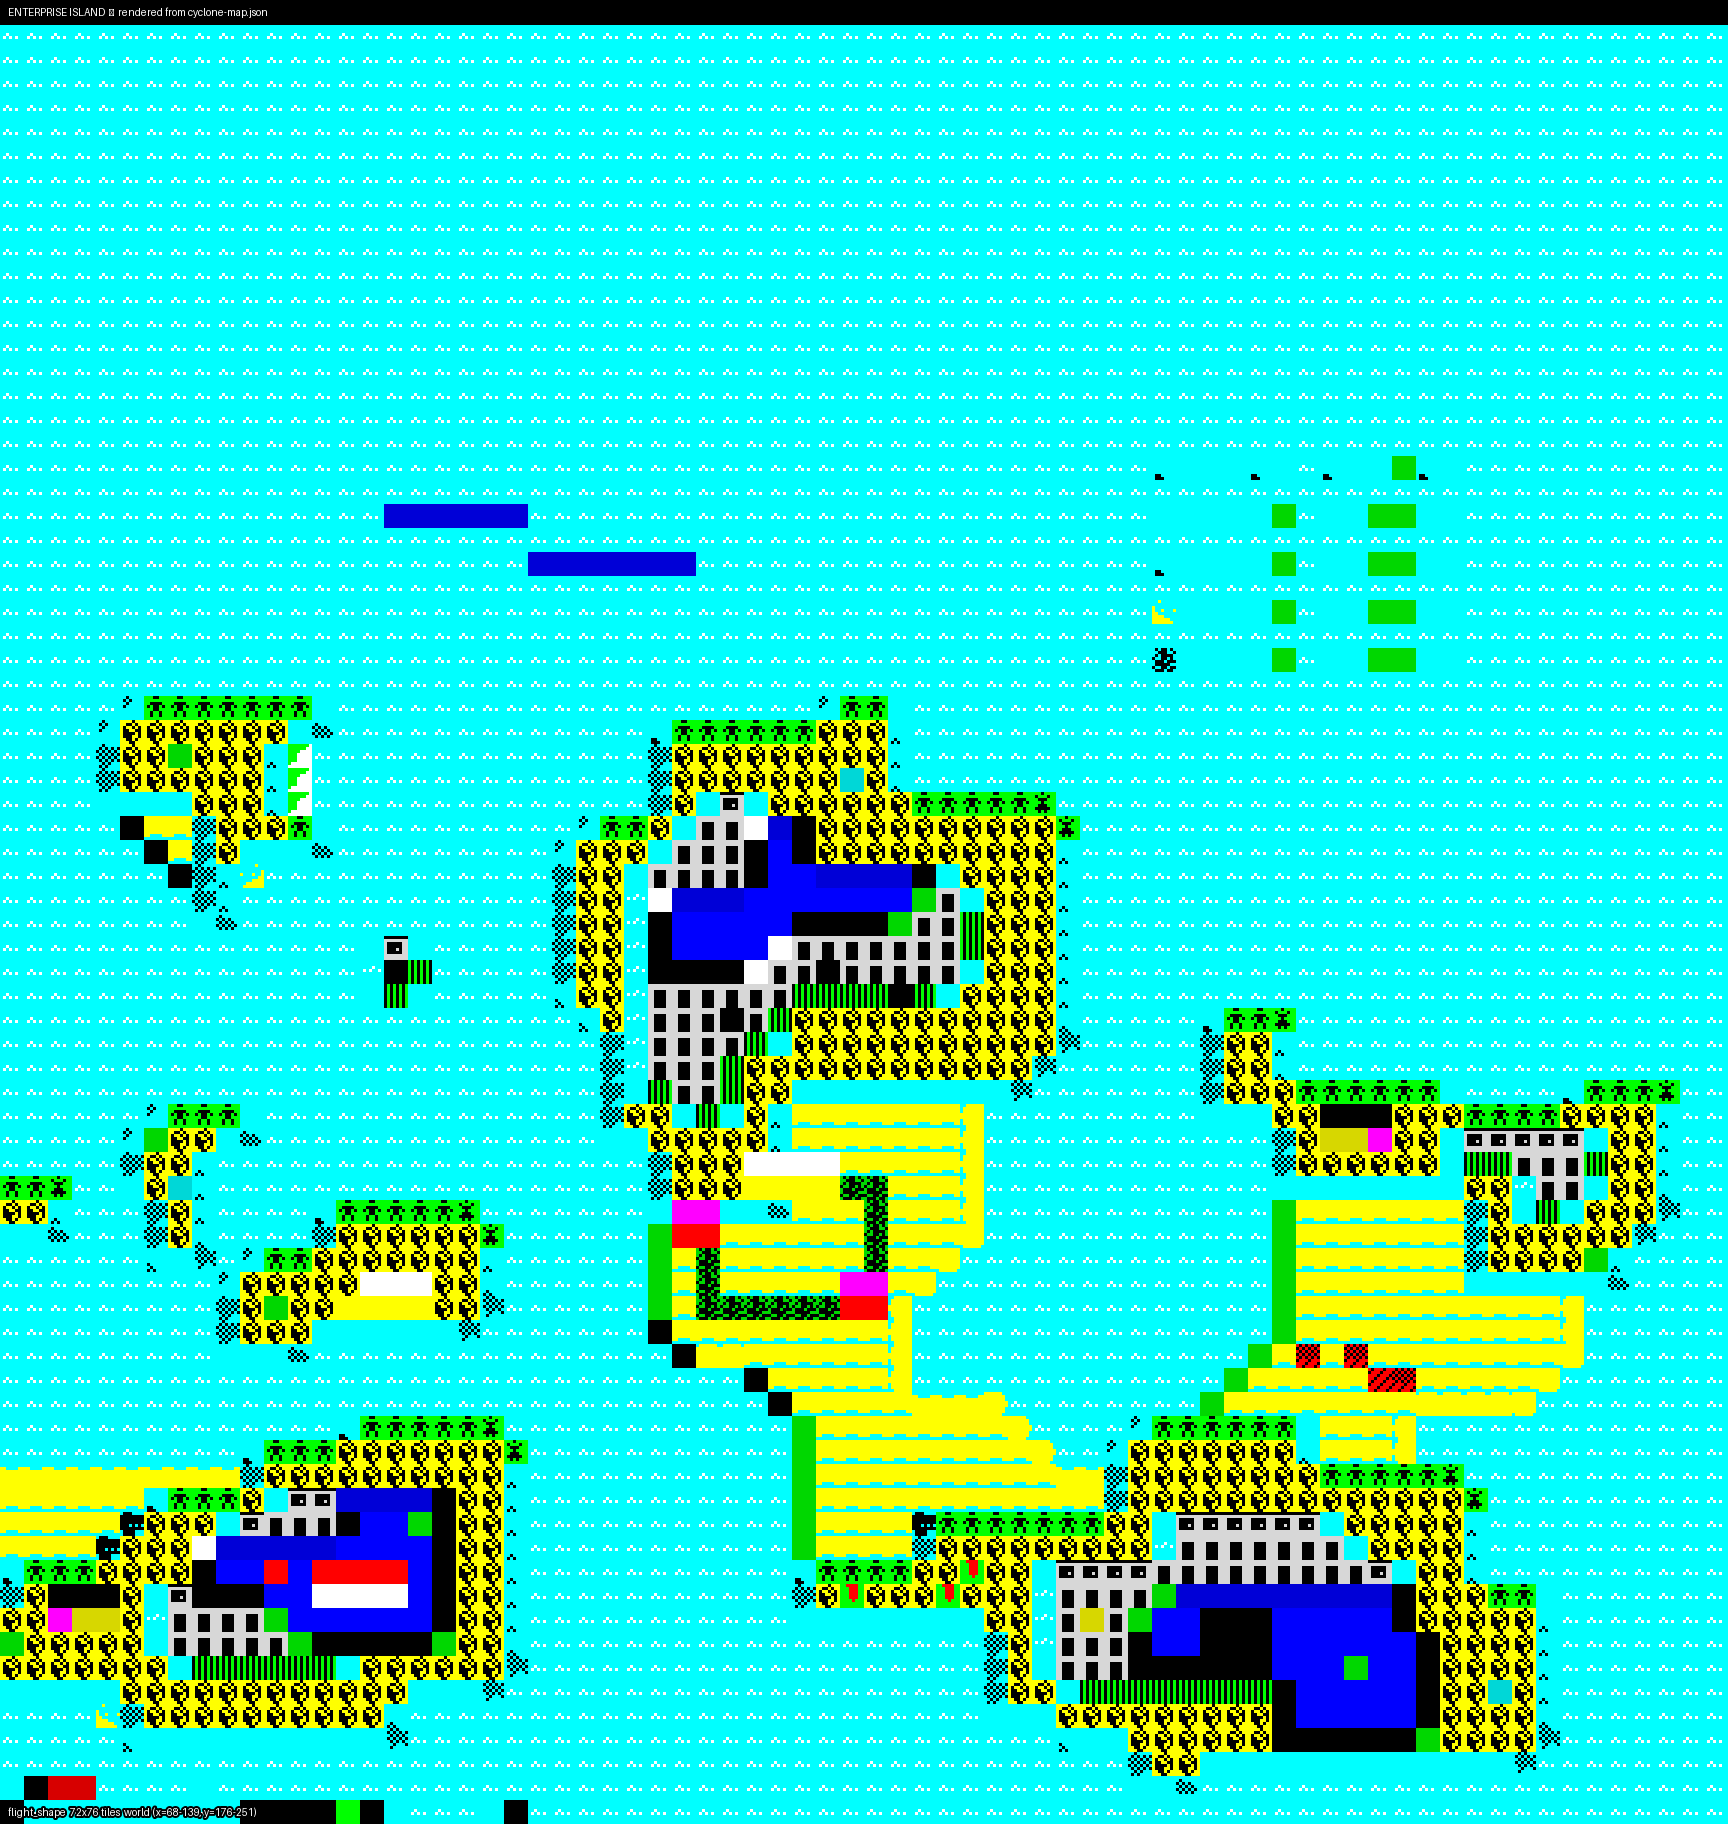
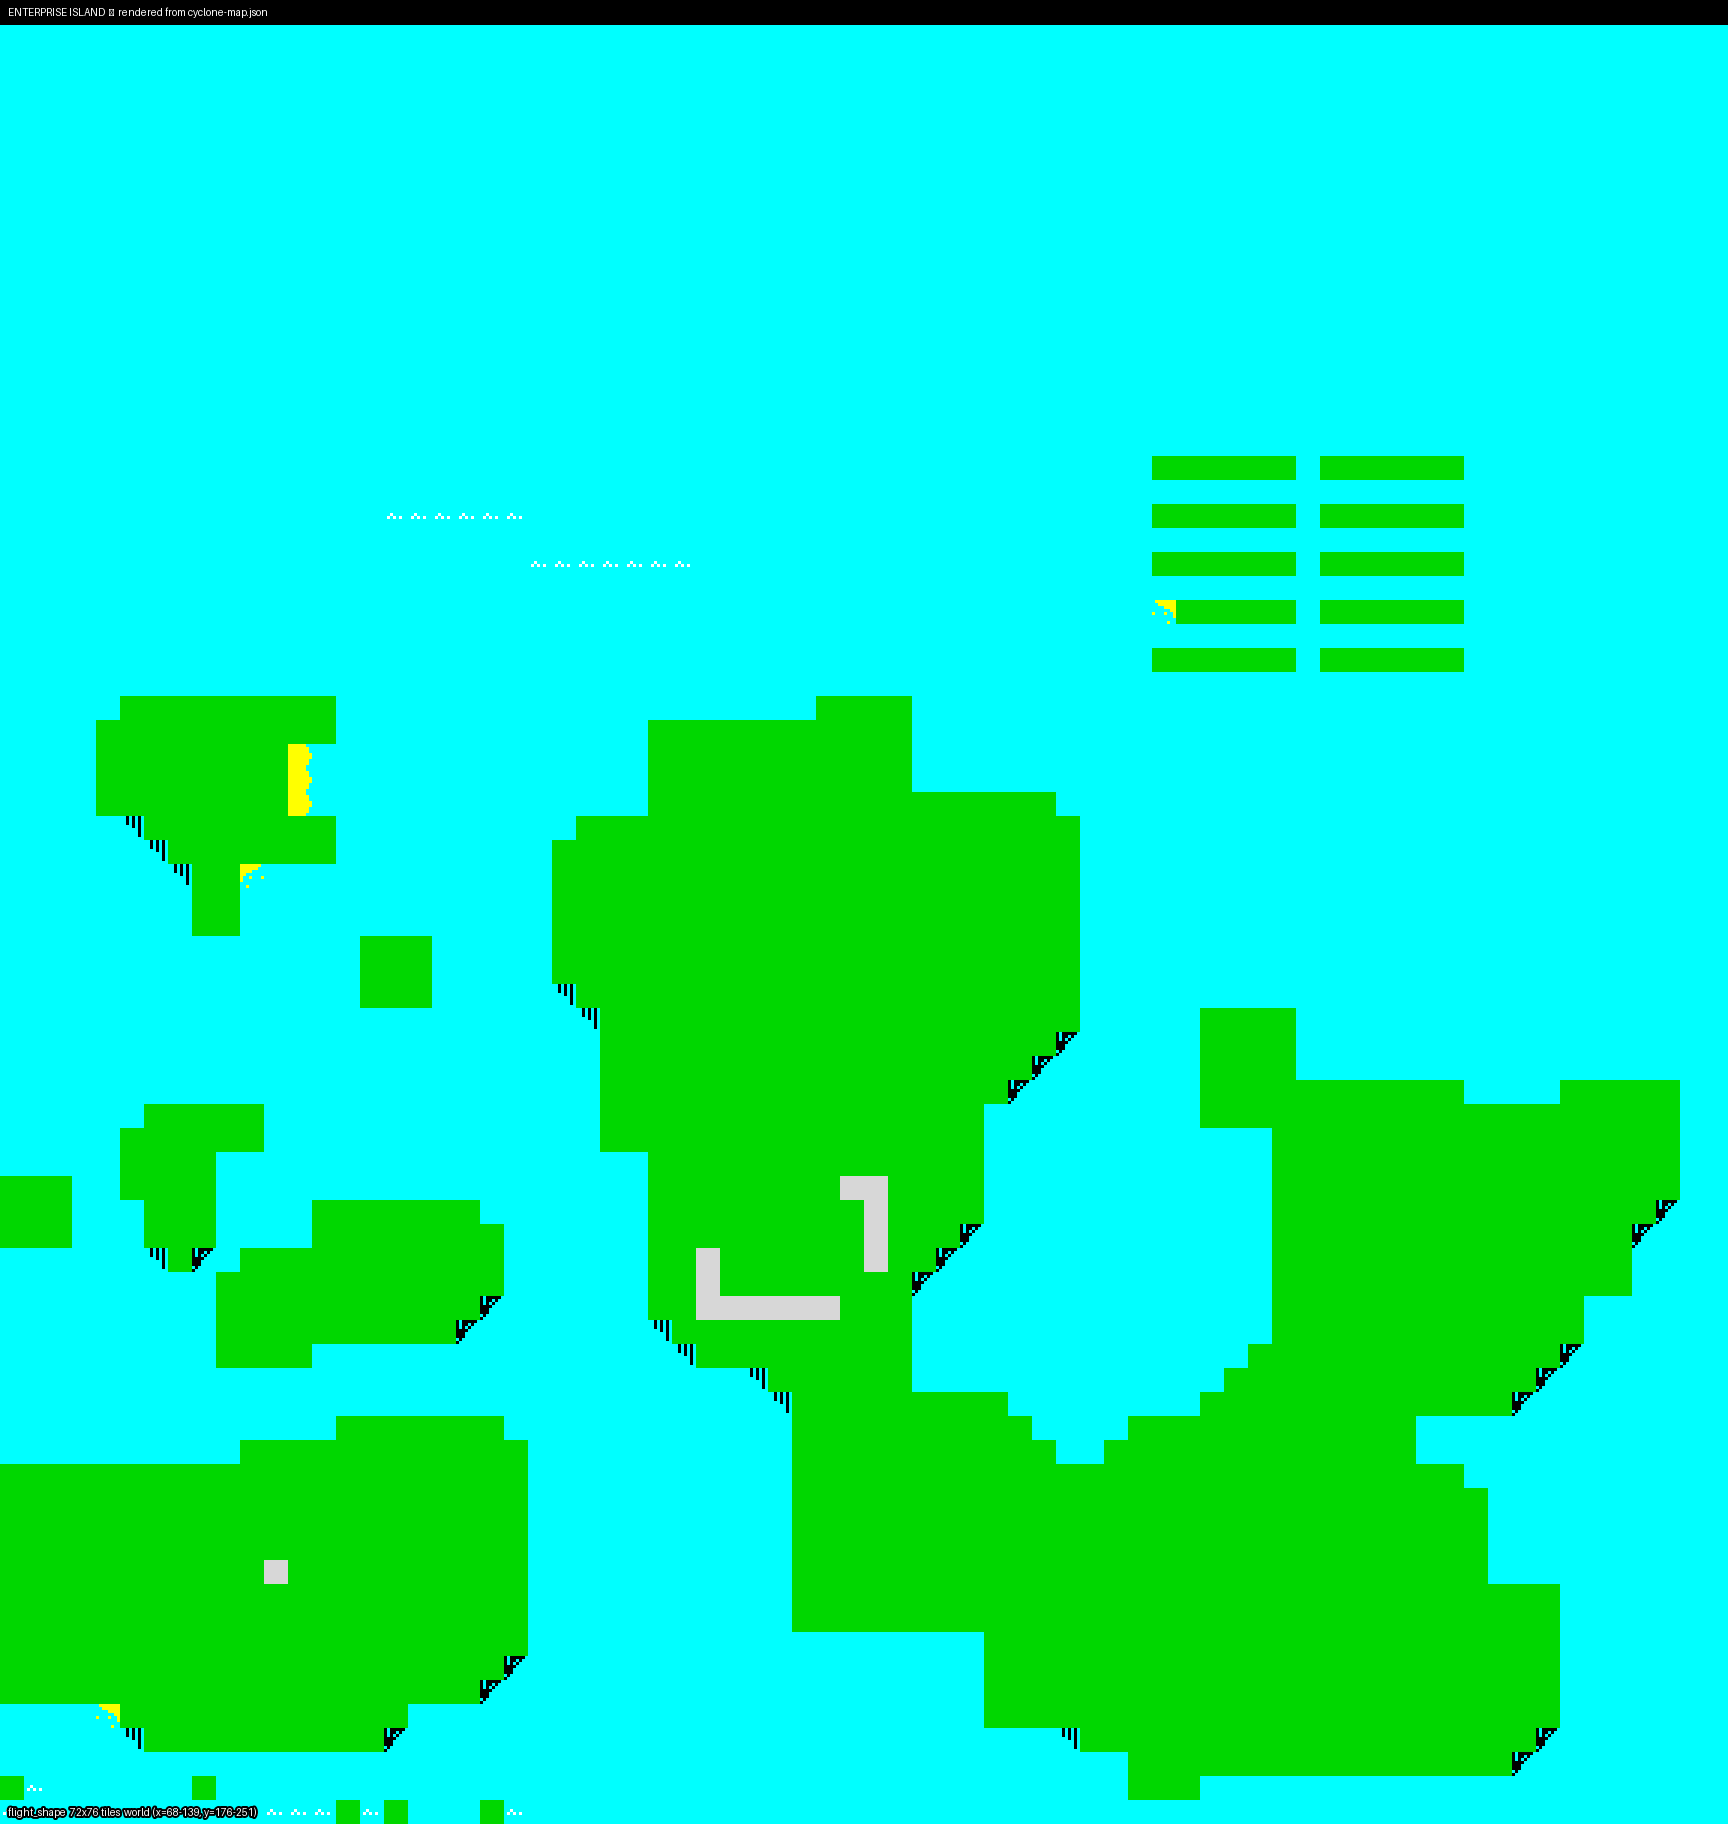
Find the real flight render pipeline — $7E10 + $6300 + $762C
You were right: $762C alone wasn't the whole renderer.  The actual
per-frame flight pipeline is:

  $76D2 → LDIR copies shape bytes from shape_base + (helY-IX+$08)*128
          + (helX-IX+$06) into $F74E (29 rows x 23 cols)
  $7E10 → translates $F74E in place via the 256-byte lookup table at
          $6300, mapping raw shape values to render-class tiles
  $762C → for each translated tile T: writes ($FE00+T) to $5800;
          if T < $80, copies $FA00+T*8 bitmap to $4000 (else solid
          attribute-only cell)

The keyboard/joystick dispatch at $5B62-$5B86 only chooses which
input handler runs; the rendering pipeline runs unconditionally
from MAIN_LOOP at $5B45-$5B57.

Without the $6300 step, raw shape bytes index $FA00 directly and
the screen fills with person/palm-tree/crate sprites — that's why
my earlier render was wrong.  $6300 collapses 133 of 256 shape
values to "solid grass" (tile 135) and 36 to "transparent", with
small clusters for sky, cliff faces, beaches and features.  After
applying it, ENTERPRISE renders as actual green land with cyan
sea, yellow beaches and visible cliff edges — matching the in-game
top-down terrain.

extract_map.py: emits tile_lookup (256 bytes from $6300) plus a
render_pipeline section in the JSON.
render_island_from_json.py: applies $6300 then $FE00 lookup before
deciding whether to draw the bitmap.
cyclone.ctl: documents the pipeline at $762C and labels $6300 as
the tile-transform lookup table.

Round-trip verified.

diff --git a/tools/extract_map.py b/tools/extract_map.py
@@ -40,6 +40,8 @@ END_MARKER_ADDR = 0xF348
 FONT = 0xFA00
 ATTRS = 0xFE00
 ATTRS_LEN = 0x100
+TILE_LOOKUP = 0x6300       # tile-transform table (see #R$7E10)
+TILE_LOOKUP_LEN = 0x100
 
 # Spectrum 8-colour palette (215/255 split for non-bright/bright).
 PALETTE = [
@@ -324,6 +326,13 @@ def extract(snapshot_path: str) -> dict:
         {"index": i, **decode_attribute(b)} for i, b in enumerate(attr_bytes)
     ]
 
+    # Tile-transform lookup at $6300 — used by #R$7E10 to translate raw
+    # shape bytes in $F74E into the values that #R$762C then renders.
+    # Apply: rendered_tile = tile_lookup[shape_byte], then attribute =
+    # attributes[rendered_tile], and bitmap = font[rendered_tile] only
+    # if rendered_tile < $80 (else solid attribute fill).
+    tile_lookup = list(at(TILE_LOOKUP, TILE_LOOKUP_LEN))
+
     return {
         "source": snapshot_path,
         "game": "Cyclone (Vortex Software, 1985)",
@@ -369,6 +378,12 @@ def extract(snapshot_path: str) -> dict:
         "tile_glyphs": glyphs,
         "glyph_categories": glyph_categories,
         "tile_attributes": attributes,
+        "tile_lookup": tile_lookup,
+        "render_pipeline": {
+            "step_1": "shape_data → $F74E (LDIR copies 23 bytes/row * N rows from shape_base, with 128-byte Y stride)",
+            "step_2": "$7E10: $F74E[i] = tile_lookup[$F74E[i]]  — translates shape bytes via the 256-byte table at $6300",
+            "step_3": "$762C: for each translated tile T: write attributes[T] to $5800; if T < 0x80, write font[T] to $4000",
+        },
     }
 
 

diff --git a/tools/render_island_from_json.py b/tools/render_island_from_json.py
@@ -53,12 +53,15 @@ def render(json_path: str, island_name: str, scale: int, out_path: str) -> None:
 
     img = Image.new("RGB", (W * 8 * scale, H * 8 * scale), (0, 0, 0))
 
-    # Exact replication of the $762C renderer: for each tile value L,
-    #   attribute byte = *($FE00 + L)
-    #   if L < $80: draw 8x8 bitmap from $FA00 + L*8
-    #   else:      no bitmap (solid paper fill)
+    # Reproduce the in-game render pipeline:
+    #   1. shape byte -> $7E10 translates via tile_lookup[$6300]
+    #   2. translated value -> $762C looks up attribute at $FE00+T
+    #   3. if T < $80: draw bitmap at $FA00+T*8; else solid fill
+    tile_lookup = data["tile_lookup"]
+
     for y, row in enumerate(rows):
-        for x, idx in enumerate(row):
+        for x, raw in enumerate(row):
+            idx = tile_lookup[raw]
             ink, paper = attr_colours(attrs[idx])
             bitmap_bytes = [0] * 8 if idx >= 0x80 else glyphs[idx]
             for dy, byte in enumerate(bitmap_bytes):
